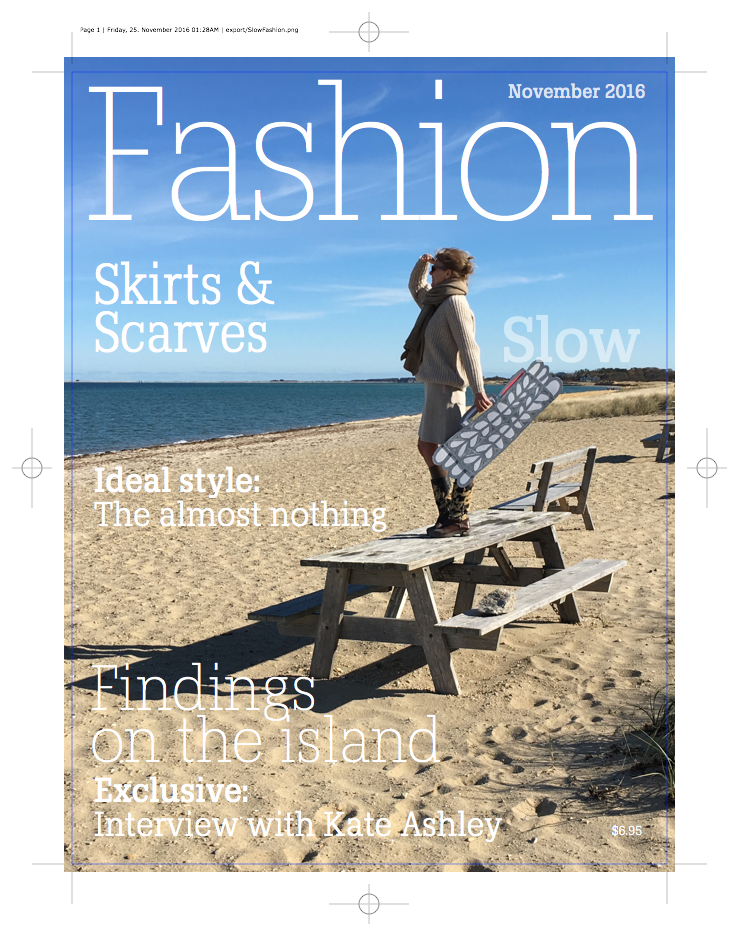
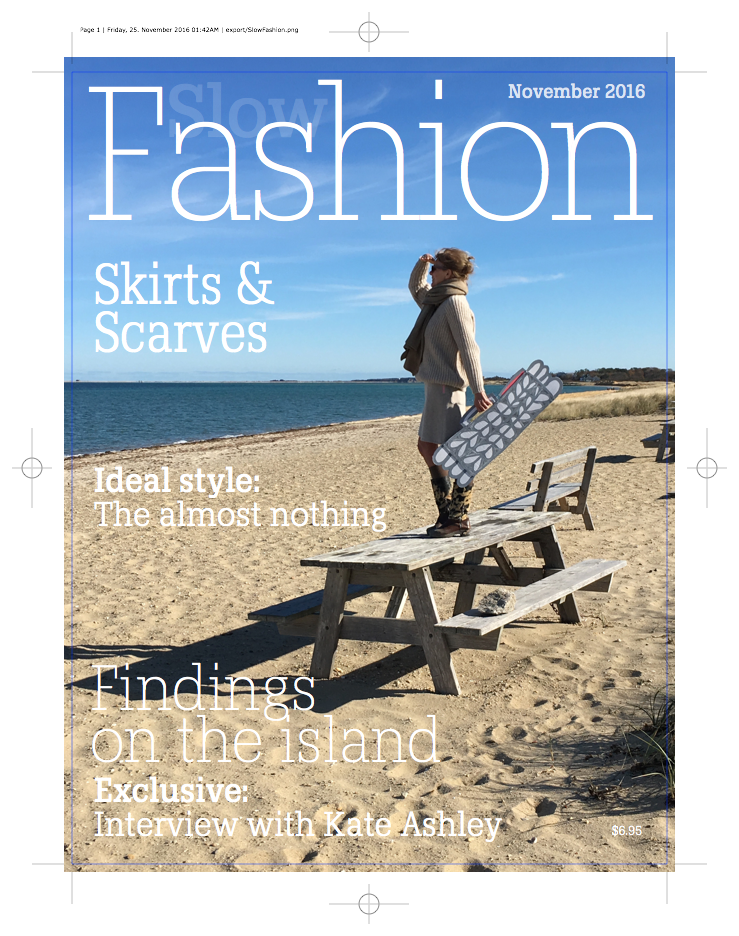
Adjusting cover titels of Slow Fashion

Changed region(s): [[0.2179, 0.0929, 0.4357, 0.1549], [0.6847, 0.3408, 0.8714, 0.4028]]

diff --git a/src/examples/FashionBot/SlowFashion.py b/src/examples/FashionBot/SlowFashion.py
@@ -198,16 +198,17 @@ def makeCoverTitles(coverTemplate, rs):
     coverTemplate.text(fs, 18, rs['h'] - 690)
         
     # Titles could come automatic from chapters in the magazine.
-    fs = FormattedString('Exclusive:\n', font=MEDIUM, fontSize=32, fill=1, tracking=0.5,
+    c = 1 #(0.2, 0.2, 1, 0.9)
+    fs = FormattedString('Exclusive:\n', font=MEDIUM, fontSize=32, fill=c, tracking=0.5,
         lineHeight=34)
-    fs += FormattedString('Interview with Kate Ashley ', font=BOOK, fontSize=32, fill=1, tracking=0.5,
+    fs += FormattedString('Interview with Kate Ashley ', font=BOOK, fontSize=32, fill=c, tracking=0.5,
         lineHeight=34)
     coverTemplate.text(fs, 22, rs['h'] - 730)
         
     # Titles could come automatic from chapters in the magazine.
-    fs = FormattedString('Slow', font=MEDIUM, fontSize=60, fill=(1, 1, 1, 0.5), tracking=0.5,
+    fs = FormattedString('Slow', font=MEDIUM, fontSize=70, fill=(1, 1, 1, 0.15), tracking=0.5,
         lineHeight=52 )
-    coverTemplate.text(fs, 430, rs['h'] - 290)
+    coverTemplate.text(fs, 95, rs['h'] - 65)
 2
         
 # -----------------------------------------------------------------         
